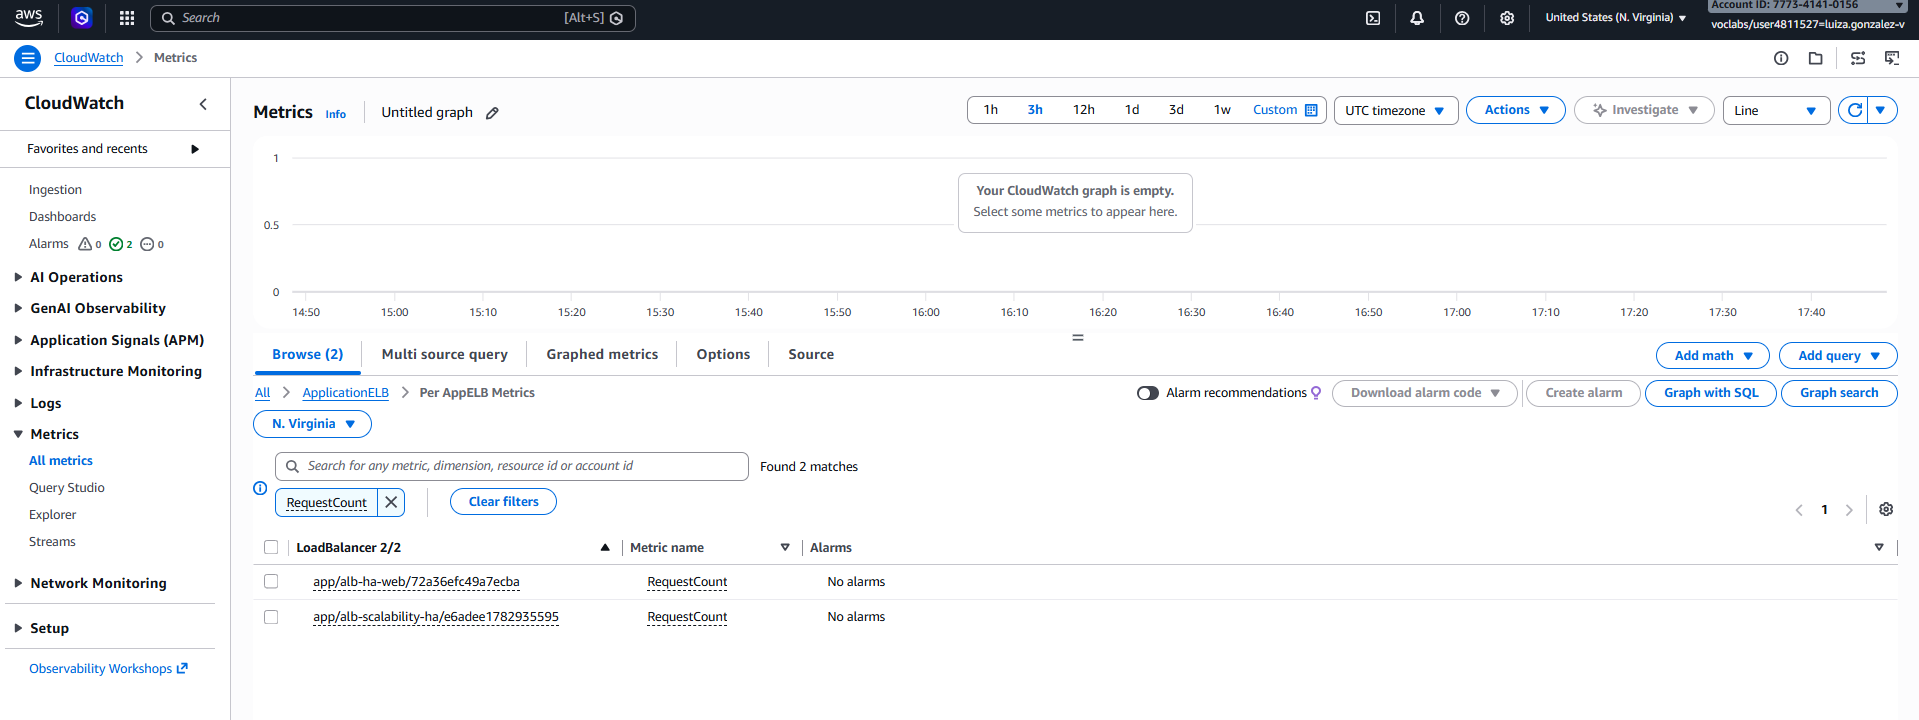
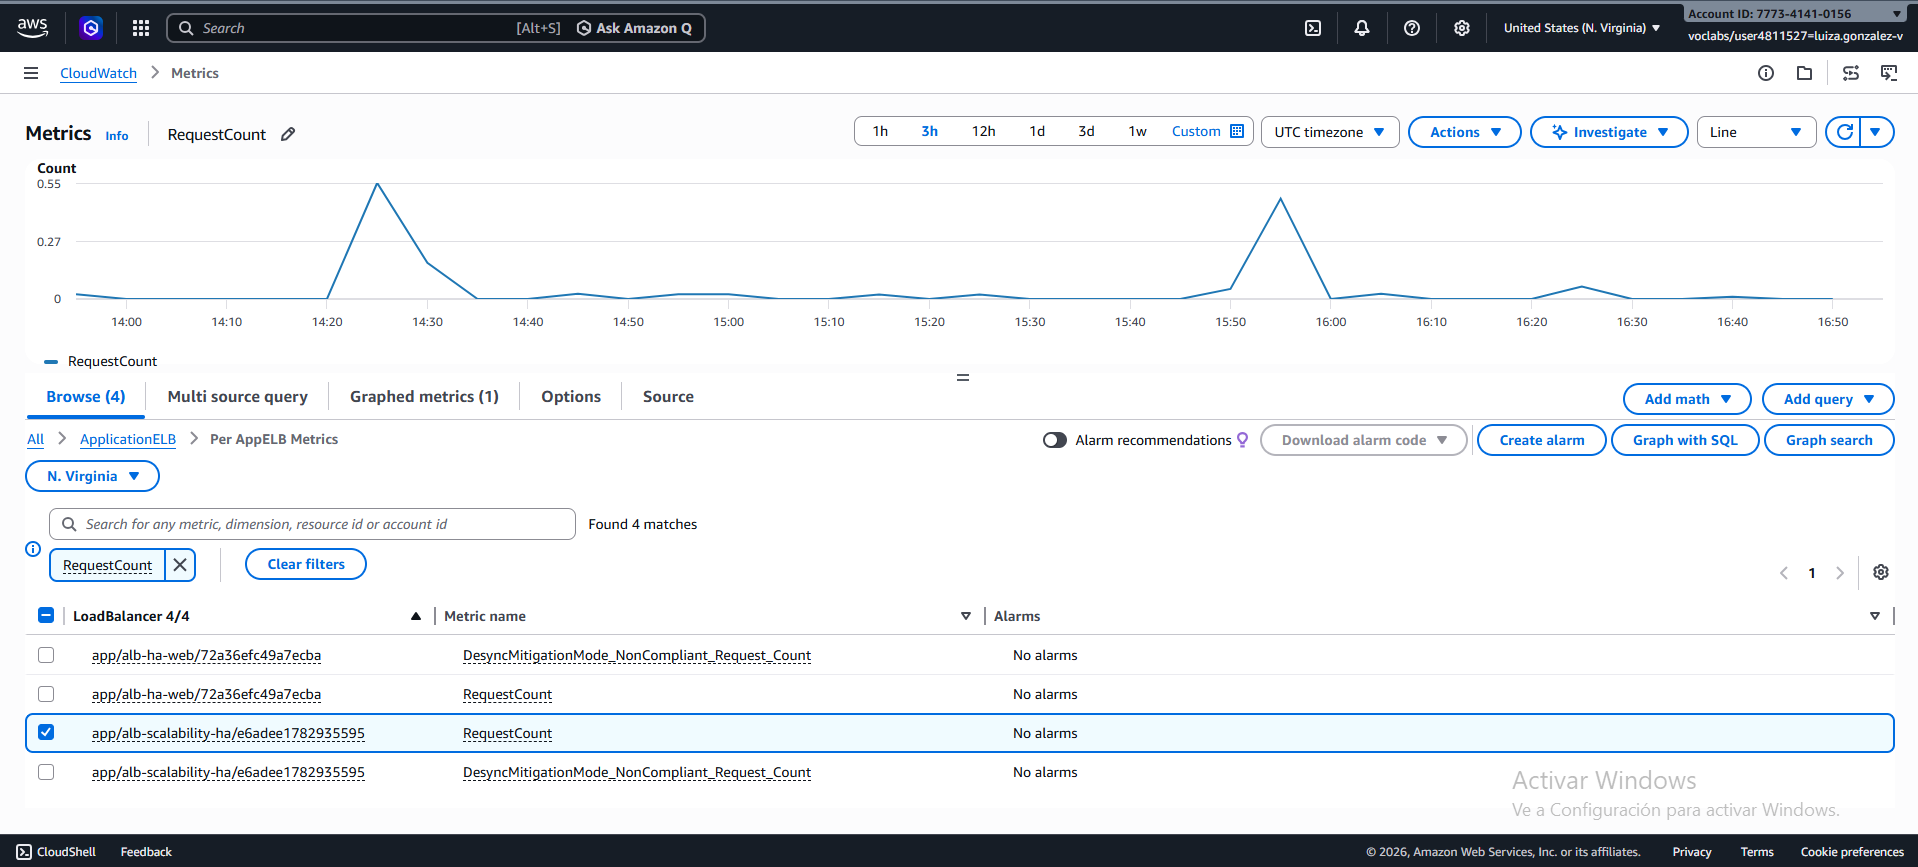
feat: README finish

diff --git a/README.md b/README.md
@@ -1,17 +1,288 @@
-# Escalabilidad
-¿Qué componente distribuye el tráfico?
-¿Qué componente decide cuántas instancias deben existir?
-¿Qué componente verifica la salud de las instancias?
-¿Por qué se seleccionan dos zonas de disponibilidad?
-¿Qué diferencia existe entre Target Group y Auto Scaling Group?
-¿Qué pasaría si una instancia falla?
-¿Qué pasaría si aumenta la carga?
+# Escalabilidad, Alta Disponibilidad y Observabilidad en AWS
+
+## Escalabilidad horizontal
+
+1. Security Groups
+
+Se crearon sg-alb-scalability (HTTP 80 desde 0.0.0.0/0) y sg-ec2-scalability (HTTP 80 únicamente desde sg-alb-scalability).
+
+2. Instancia base y verificación
+
+Se lanzó la instancia web-scalability-base con Amazon Linux 2023, Apache instalado vía User Data, y se validó que 
+respondiera correctamente en / y /health.
+
+
+![pruebaHealthy.png](imagenes/pruebaHealthy.png)
+
+3. Creación de la AMI
+
+Se generó la imagen ami-web-scalability-arsw a partir de la instancia base, ya validada.
+
+![amis.png](imagenes/amis.png)
+
+4. Launch Template
+
+Se creó el Launch Template lt-web-scalability a partir de la AMI anterior, sin User Data adicional.
+
+![launchT.png](imagenes/launchT.png)
+
+## Alta disponibilidad con Load Balancer
+
+1. Target Group
+
+Se creó tg-scalability-ha, protocolo HTTP puerto 80, con health check en la ruta /health.
+
+![targetGroup.png](imagenes/targetGroup.png)
+
+2. Application Load Balancer
+
+Se creó alb-scalability-ha, internet-facing, en dos zonas de disponibilidad, 
+con listener HTTP:80 apuntando al Target Group.
+
+![loadBalancer.png](imagenes/loadBalancer.png)
+
+3. Auto Scaling Group
+
+Se creó asg-web-scalability a partir del Launch Template, asociado al Target Group, con capacidad mínima 2, máxima 3, 
+y política de target tracking sobre CPU (objetivo 50%).
+
+![autoScaling.png](imagenes/autoScaling.png)
+
+4. Verificación de instancias creadas por Auto Scaling
+
+El Auto Scaling Group registró automáticamente las instancias nuevas.
+
+![AutoScalingVerificacionEC.png](imagenes/AutoScalingVerificacionEC.png)
+
+5. Verificación del Target Group
+
+Las instancias quedaron en estado Healthy antes de recibir tráfico del ALB.
+
+![AutoScalingVerificacionEC.png](imagenes/AutoScalingVerificacionEC.png)
+
+6. Prueba del Load Balancer
+
+Solicitudes repetidas al DNS del balanceador, mostrando respuestas desde distintos Instance ID.
+
+![pruebaDNSloadBalancer.png](imagenes/pruebaDNSloadBalancer.png)
+![pruebaDNSloadBalancerPrueba2.png](imagenes/pruebaDNSloadBalancerPrueba2.png)
+
+## Actividad 1: análisis de escalabilidad y alta disponibilidad
+
+* ¿Qué componente distribuye el tráfico?
+
+El Application Load Balancer (alb-scalability-ha) recibe todas las solicitudes por un único DNS
+y las reparte entre las instancias registradas en el Target Group.
+
+* ¿Qué componente decide cuántas instancias deben existir?
+
+El Auto Scaling Group, con base en su capacidad deseada y en la política de target tracking sobre CPU.
+
+* ¿Qué componente verifica la salud de las instancias?
+
+El Target Group, mediante el health check configurado en la ruta /health.
+
+* ¿Por qué se seleccionan dos zonas de disponibilidad?
+
+Para que, si una zona completa falla, las instancias de la otra zona sigan respondiendo y el servicio
+no se caiga por completo.
+
+* ¿Qué diferencia existe entre Target Group y Auto Scaling Group?
+
+El Target Group es una lista de destinos a los que el balanceador puede enviar tráfico,
+junto con la lógica de health checks para saber cuáles están sanos. El Auto Scaling Group
+decide cuántas instancias deben existir, las crea o elimina, y las registra/desregistra 
+automáticamente en el Target Group.
+
+* ¿Qué pasaría si una instancia falla?
+
+El health check la marca como Unhealthy, el balanceador deja de enviarle tráfico,
+y el Auto Scaling Group la reemplaza por una nueva.
+
+* ¿Qué pasaría si aumenta la carga?
+
+La CPU promedio sube por encima del valor objetivo (50%), la política de target tracking 
+dispara un escalamiento, y el Auto Scaling Group lanza instancias adicionales hasta el máximo configurado.
+
+## Prueba de escalabilidad
+
+1. Generación de carga
+
+Se generó carga artificial de CPU sobre las instancias con stress-ng --cpu 2 --timeout 300s .
+
+![pruebaC.png](imagenes/pruebaC.png)
+
+2. Observación del escalamiento
+
+El Auto Scaling Group pasó de capacidad deseada 2 a 3 tras superar el umbral de CPU configurado.
+
+![activity.png](imagenes/activity.png)
+![DesiredCapacity.png](imagenes/DesiredCapacity.png)
+
+### Actividad 2: análisis del escalamiento
+
+| Pregunta | Respuesta |
+|---|---|
+| Métrica que activó la política | Average CPU Utilization |
+| Instancias antes de la prueba | 2 |
+| Instancias después de la prueba | 3 |
+| Tiempo de reacción | Algunos minutos, ya que CloudWatch recolecta métricas por intervalos antes de que Auto Scaling tome la decisión |
+| Limitación de usar solo CPU | Una aplicación puede estar saturada por I/O, memoria o latencia de red sin que la CPU se eleve, dejando el sistema sin escalar aunque esté degradado |
+| Otra métrica útil para una app web | `RequestCountPerTarget` o `TargetResponseTime`, que reflejan mejor la carga real percibida por el usuario |
+
+## Observabilidad con CloudWatch
+
+1. Métricas del Load Balancer
+
+* RequestCount
+* HealthyHostCount
+* UnHealthyHostCount
+* TargetResponseTime
+* HTTPCode_Target_2XX_Count
+* HTTPCode_Target_5XX_Count
+
+![loadBalancerMetricas.png](imagenes/loadBalancerMetricas.png)
+
+2. Auto Scaling
+
+Group desired capacity
+Group in service instances
+Group total instances
+Average CPU utilization
+
+![Monitoring3.png](imagenes/Monitoring3.png)
+![activity.png](imagenes/activity.png)
+![img.png](imagenes/img.png)
+
+3. Instancia
+
+CPUUtilization
+NetworkIn
+NetworkOut
+StatusCheckFailed
+
+![metricsEC2.png](imagenes/metricsEC2.png)
+
+4. Análisis de observabilidad
+
+**Métrica observada:** CPUUtilization
+**Servicio AWS:** Amazon EC2 (instancias del Auto Scaling Group)
+**Valor antes de la carga:** 0%
+**Valor durante la carga:** *(no se logró capturar sobre las instancias correctas del ASG — la consulta se hizo sobre la instancia base, ya fuera de servicio)*
+**Valor después de la carga:** 0%
+**Interpretación:** No se obtuvo lectura numérica válida porque la métrica se consultó sobre `web-scalability-base` en lugar de las instancias activas del grupo. Aun así, el escalamiento observado en `GroupDesiredCapacity` confirma que la política basada en CPU sí se disparó.
+**Decisión arquitectónica que soporta:** Justifica el uso de una política de Target Tracking basada en CPU para el Auto Scaling Group.
 
 ---
 
-¿Qué métrica activó la política de escalamiento?
-¿Cuántas instancias había antes de la prueba?
-¿Cuántas instancias hubo después?
-¿Cuánto tiempo tardó el sistema en reaccionar?
-¿Qué limitación tiene usar solo CPU como métrica de escalamiento?
-¿Qué otra métrica podría ser útil para una aplicación web?
+**Métrica observada:** HealthyHostCount
+**Servicio AWS:** Elastic Load Balancing (Target Group)
+**Valor antes de la carga:** 2
+**Valor durante la carga:** 2
+**Valor después de la carga:** 3
+**Interpretación:** El Target Group mantuvo 2 hosts saludables durante ambas rondas de carga y pasó a 3 una vez el Auto Scaling Group registró la nueva instancia y esta superó el health check.
+**Decisión arquitectónica que soporta:** Valida la configuración del health check en la ruta `/health` como mecanismo de protección del balanceador antes de enviar tráfico a nuevas instancias.
+
+---
+
+**Métrica observada:** RequestCount
+**Servicio AWS:** Elastic Load Balancing (Application Load Balancer)
+**Valor antes de la carga:** ~0
+**Valor durante la carga:** ~1
+**Valor después de la carga:** ~0
+**Interpretación:** El volumen de solicitudes aumentó en ambos picos de la prueba de carga, coincidiendo con el aumento de CPU reportado por el Auto Scaling Group.
+**Decisión arquitectónica que soporta:** Confirma que el ALB distribuye efectivamente el tráfico entrante hacia las instancias registradas.
+
+---
+
+**Métrica observada:** TargetResponseTime
+**Servicio AWS:** Elastic Load Balancing (Application Load Balancer)
+**Valor antes de la carga:** ~0s
+**Valor durante la carga:** ~0s (sin variación visible)
+**Valor después de la carga:** ~0s
+**Interpretación:** El tiempo de respuesta se mantuvo estable incluso durante la carga, sin degradación perceptible.
+**Decisión arquitectónica que soporta:** Sustenta que la arquitectura distribuyó correctamente la carga sin generar cuellos de botella perceptibles en esta prueba.
+
+---
+
+**Métrica observada:** GroupDesiredCapacity
+**Servicio AWS:** Amazon EC2 Auto Scaling
+**Valor antes de la carga:** 2
+**Valor durante la carga:** 3
+**Valor después de la carga:** 2
+**Interpretación:** El Auto Scaling Group incrementó su capacidad deseada al superar el umbral de CPU objetivo, y la redujo nuevamente al normalizarse la carga.
+**Decisión arquitectónica que soporta:** Evidencia el funcionamiento de la política de target tracking, ajustando la capacidad automáticamente según la demanda.
+
+### Prueba de alta disponibilidad
+
+1. Simulación de falla y validación de continuidad
+
+![pruebaDNSloadBalancer.png](imagenes/pruebaDNSloadBalancer.png)
+![pruebaDNSloadBalancerPrueba2.png](imagenes/pruebaDNSloadBalancerPrueba2.png)
+
+2. Actividad 4: análisis de alta disponibilidad
+
+* ¿Qué ocurrió cuando se detuvo una instancia?
+
+El Target Group dejó de considerarla saludable tras fallar el health 
+check, y el balanceador dejó de enviarle tráfico.
+
+* ¿El Load Balancer siguió respondiendo?
+
+Sí, siguió respondiendo usando las instancias restantes
+marcada(s) como Healthy.
+
+* ¿El Target Group detectó la falla?
+
+Sí, tras el número de chequeos "unhealthy threshold" configurados 
+(2 intentos con intervalo de 15 segundos).
+
+* ¿El Auto Scaling Group lanzó una nueva instancia?
+
+Sí, para restaurar la capacidad deseada del grupo.
+
+* ¿Qué diferencia existe entre ocultar una falla y recuperarse de una falla?
+
+Ocultar una falla es simplemente dejar de enviar tráfico a la instancia 
+dañada mientras el sistema opera con menos capacidad 
+(lo que hace el Target Group). Recuperarse de una falla 
+implica además reemplazar el recurso perdido para restaurar la 
+capacidad original (lo que hace el Auto Scaling Group).
+
+* ¿Qué atributo de calidad se evidencia en esta prueba?
+
+Disponibilidad
+
+4. Relación entre los tres conceptos
+
+| Concepto | Componente AWS relacionado | Evidencia en el laboratorio |
+|---|---|---|
+| Escalabilidad | Auto Scaling Group | Aumento de 2 a 3 instancias tras la prueba de carga (`activity.png`) |
+| Alta disponibilidad | ALB + múltiples AZ | Respuestas continuas desde el DNS del balanceador durante la falla simulada |
+| Observabilidad | CloudWatch Metrics | Métricas de CPU y RequestCount (`Monitoring3.png`, `RequestCount.png`) |
+| Detección de fallos | Health checks | Estado *Healthy/Unhealthy* en el Target Group (`targetGroup.png`, `pruebaHealthy.png`) |
+| Recuperación | Auto Scaling Group | Reemplazo automático de instancia caída |
+| Distribución de carga | Load Balancer | Respuestas desde distintos `Instance ID`|
+
+5. Propuesta de mejora para producción
+
+
+- Habilitar **HTTPS** en el listener del ALB usando un certificado de AWS Certificate Manager.
+- Colocar las instancias EC2 en **subredes privadas**, accesibles únicamente desde el ALB.
+- Reemplazar la política basada solo en CPU por una basada en **RequestCountPerTarget**.
+- Configurar **CloudWatch Alarms** con notificaciones (SNS) ante degradación de targets o errores 5XX.
+- Centralizar **logs de acceso** del ALB y logs de aplicación.
+- Usar una base de datos administrada **Multi-AZ** si la aplicación requiere persistencia.
+- Adoptar **infraestructura como código** (Terraform/CloudFormation) para reproducibilidad del entorno.
+- Aplicar despliegues **blue/green** para actualizar la aplicación sin downtime.
+
+6. Diagrama de arquitectura.
+
+![Escalabilidad.png](imagenes/Escalabilidad.png)
+
+7. Limpieza de recursos
+
+Al finalizar el laboratorio se eliminaron, en orden: Auto Scaling Group → 
+Application Load Balancer → Target Group → Launch Template → 
+AMI y snapshot asociado → instancia base (si aún existía) → 
+Security Groups creados, para evitar consumo innecesario de créditos.